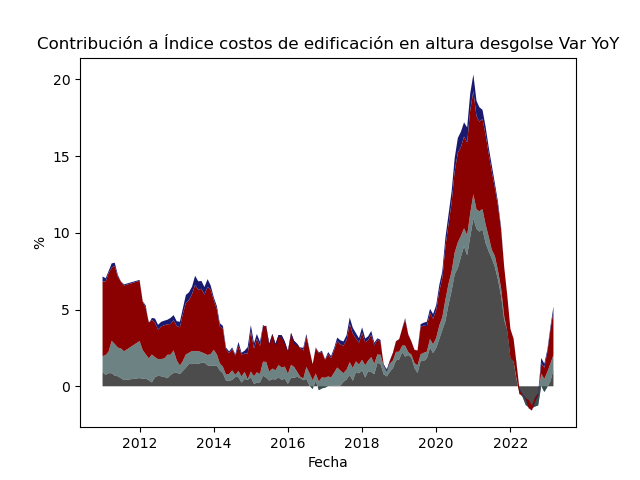
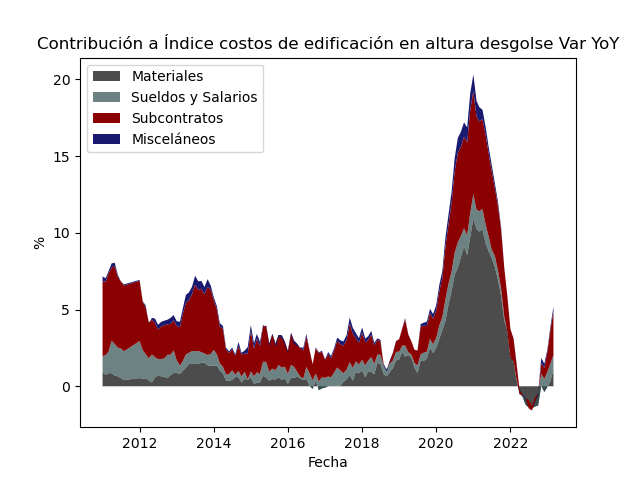
auto_plots v1

Changed region(s): [[0.125, 0.125, 0.4062, 0.3125]]

diff --git a/utils/cchc_preprocess.py b/utils/cchc_preprocess.py
@@ -6,7 +6,15 @@ import math
 
 
 def download_excel_to_df(url="https://cchc.cl/uploads/indicador/archivos/ICEWeb.xls",filename="ICEWeb",sheet_name=0):
+    """ Downloads an excel file to a dataframe and read ir as a dataframe.
+    Args:
+        url (str): The url of the excel file to download.
+        filename (str): The name of the file to save.
+        sheet_name (int): The index of the sheet to read from the excel file.
 
+    Returns:
+        df (DataFrame): The dataframe read from the excel file.
+    """
     download_excel_file(url,name=filename)
 
     file_path=f"download_excels/{filename}.xlsx"
@@ -18,8 +26,14 @@ def download_excel_to_df(url="https://cchc.cl/uploads/indicador/archivos/ICEWeb.
 
 
 def preprocess_iCE(df,new_column_mapping={0: 'Year', 1: 'Month',5:"Índice general", 11:"Materiales peso",12:"Sueldos y Salarios peso",13:"Misceláneos peso", 14:"Obra Gruesa peso",15:"Terminaciones peso",16:"Instalaciones peso",17: "Costos Indirectos peso"}):
-    """
-    Preprocess the dataframe for ICE excel data
+    """ Preprocess the dataframe for ICEweb excel data, see https://cchc.cl/centro-de-informacion/indicadores/indice-de-costos-de-edificacion
+    
+    Args:
+        df (DataFrame): The dataframe to preprocess with the raw ICE data.
+        new_column_mapping (dict): The mapping of the new column names.
+
+    Returns:
+        df (DataFrame): The preprocessed dataframe.
     """
     df=df.iloc[:, :18]
 
@@ -37,34 +51,59 @@ def preprocess_iCE(df,new_column_mapping={0: 'Year', 1: 'Month',5:"Índice gener
     return df
 
 def rename_col_by_index(dataframe, index_mapping):
+    """ Rename the columns of a dataframe based on the index mapping.
+
+    Args:
+        dataframe (DataFrame): The dataframe to rename the columns of.
+        index_mapping (dict): The mapping of the index to column name.
+
+    Returns:
+        dataframe (DataFrame): The dataframe with renamed columns.
+    """
     dataframe.columns = [index_mapping.get(i, col) for i, col in enumerate(dataframe.columns)]
     return dataframe
  
 
-def process_dates(df,last_number=1990,frequency=1):
+def process_dates(df,first_number=1990,frequency=1):
+    """ Process the dates in the dataframe in a specific way given the report format of the Cchc.
+
+    Args:
+        df (DataFrame): The dataframe to process the dates in.
+        first_number (int): The first year number in the dataframe.
+        frequency (int): The number of months between each date (default 1)
+
+    Returns:
+        df (DataFrame): The dataframe with processed dates.
+    """
     for i,j in enumerate(df.iloc[:,0]):
 
         if type(j)==int:
-            last_number=int(j)
+            first_number=int(j)
             month_counter=frequency
 
         elif math.isnan(j):
-            df.iloc[i,0]=last_number
+            df.iloc[i,0]=first_number
             month_counter+=frequency
         df.iloc[i,1]=month_counter
     return(df)
 
 def preprocess_ventas_santiago(df):
+    """ Preprocess the dataframe for ventas Santiago excel data, see https://cchc.cl/centro-de-informacion/indicadores/mercado-inmobiliario-oferta-gran-santiago
+
+    Args:
+        df (DataFrame): The dataframe to preprocess with the raw ventas Santiago data.
+
+    Returns:
+        df (DataFrame): The preprocessed dataframe.
+    """
     
     df=df.set_axis(df.iloc[0], axis='columns')
     df=df.drop(index=[0])
     new_column_mapping = {0: 'Year', 1: 'Month',2:"Departamentos stock", 3:"Departamentos ventas",4:"Departamentos Meses",5:"Casas stock", 6:"Casas ventas",7:"Casas meses",8:"Viviendas stock",9: "Viviendas ventas",10: "Viviendas meses"}
     df = rename_col_by_index(df, new_column_mapping)
     df.dropna(axis=0,subset=["Departamentos ventas"], inplace=True)
-    df=process_dates(df,last_number=2004,frequency=1)
+    df=process_dates(df,first_number=2004,frequency=1)
     df["Period"] = df["Year"].astype(str) +" Q"+ df["Month"].astype(str)
-    #df["Day"]=1
-    #df.index=pd.to_datetime(df.loc[:,("Year","Month","Day")])
     df=df.drop(columns=["Year","Month"])
     return df
 

diff --git a/report_plots.py b/report_plots.py
@@ -9,6 +9,10 @@ import numpy as np
 from utils.cchc_preprocess import download_excel_to_df,preprocess_iCE,preprocess_ventas_santiago
 
 
+#################################################################
+### A script for create the required plots in a scpecific way ###
+#################################################################
+
 ##################################
 ###  IMACEC vs IMACON vs IMCE  ###
 ##################################
@@ -23,6 +27,7 @@ title="IMACEC vs IMACON vs IMCE"
 
 plot=Plot_Data()
 df=plot.get_data_plots(args)
+
 ### plot ###
 
 df.plot(title=title, color=["midnightblue", "orange", "powderblue"], lw=3)
@@ -39,7 +44,7 @@ args={
         "series":["F034.VVNN.FLU.CCHC.Z.0.T","F034.CVN.FLU.INE.Z.0.M"],
         "nombres" : ["Promesas compra venta","Número de viviendas autorizadas"],
         "variacion":12,
-        "frecuencia":"A",
+        "frecuencia":"YE",
         "observado":{"Promesas compra venta":"last", "Número de viviendas autorizadas":"last"}
 
     }
@@ -93,7 +98,7 @@ args={
         "series":["F038.DEUD.PPB2.53.10.N.2018.CLP.T","F038.DEUBH.PPB2.53.10.N.2018.CLP.T"],
         "nombres" :["Deuda total","Deuda hipotecaria"],
         "variacion":12,
-        "frecuencia":"A",
+        "frecuencia":"YE",
         "observado":{"Deuda total":"last", "Deuda hipotecaria":"last"}
   
     }
@@ -162,7 +167,7 @@ args=    {
         "nombres" : ["Número de viviendas autorizadas","IMACON"],
         "desde":"2008-01-01",    # tentativo
         "variacion":12,
-        "frecuencia":"A",
+        "frecuencia":"YE",
         "observado":{"Número de viviendas autorizadas":"last", "IMACON":"last"}
     }
 
@@ -287,7 +292,7 @@ args=        {
         "nombres" : ["IMACON","PIB"],
         "desde":"2008-01-01",    
         "variacion":12,
-        "frecuencia":"A",
+        "frecuencia":"YE",
         "observado":{"IMACON":"last", "PIB":"last"}
     }
 
@@ -317,7 +322,7 @@ args=        {
         "nombres" : ["IMACON","Ventas casas nuevas"],
         "desde":"2008-01-01",    # tentativo
         "variacion":12,
-        "frecuencia":"A",
+        "frecuencia":"YE",
         "observado":{"IMACON":"last", "Ventas casas nuevas":"last"}
     }
 
@@ -395,7 +400,7 @@ args=        {
         "nombres" : ["Venta viviendas nuevas","Deuda bancaria hipótecaria"],
         "desde":"2008-01-01",    # tentativo
         "variacion":12,
-        "frecuencia":"A",
+        "frecuencia":"YE",
         "observado":{"Venta viviendas nuevas":"last", "Deuda bancaria hipótecaria":"last"}
     }
 
@@ -524,12 +529,13 @@ x=df_combined.index.to_numpy()
 fig = plt.figure()
 ax1 = fig.add_subplot(111)
 
-ax1.fill_between(x, 0, y_stack[0,:], facecolor="black", alpha=.7)
-ax1.fill_between(x, y_stack[0,:], y_stack[1,:], facecolor="darkslategrey", alpha=.7)
-ax1.fill_between(x, y_stack[1,:], y_stack[2,:], facecolor="darkred")
-ax1.fill_between(x, y_stack[2,:], y_stack[3,:], facecolor="midnightblue")
+ax1.fill_between(x, 0, y_stack[0,:], facecolor="black", alpha=.7,label="Materiales")
+ax1.fill_between(x, y_stack[0,:], y_stack[1,:], facecolor="darkslategrey", alpha=.7,label="Sueldos y Salarios")
+ax1.fill_between(x, y_stack[1,:], y_stack[2,:], facecolor="darkred",label="Subcontratos")
+ax1.fill_between(x, y_stack[2,:], y_stack[3,:], facecolor="midnightblue",label="Misceláneos")
 plt.title(title)
 plt.xlabel('Fecha')
 plt.ylabel('%')
+ax1.legend(loc="upper left")
 plt.savefig(os.path.join("plots",title))
 plt.close()

diff --git a/get_data.py b/get_data.py
@@ -2,11 +2,13 @@ import bcchapi
 import os
 from utils.json_utils import get_json
 import datetime
+
+
 ##### Get data #####
 
 class Data:
-    '''
-        Class to get data from bccentral API
+    ''' Class to get data from bccentral API
+    
     '''
     def __init__(self,data_dir="data"):
         self.siete = bcchapi.Siete(file="credentials.txt") # tiene que ser string # file="credenciales.txt" hacer mas seguro el logging con variables de ambiente
@@ -15,9 +17,12 @@ class Data:
               os.makedirs( self.data_directory)
 
     def get_data_from_json(self,json_file="serie.json"):
-        """
-        Function to to get the parameters from the json file and make request to the API
-        
+        """ Function to to get the parameters from the json file and make request to the API
+
+        Args:
+            json file (str): name of the json file with the parameters 
+        Returns:
+            df: dataframe with the data
         """
         args=get_json(json_file)
         self.name=args["nombres"]   # que pasa si no pongo nombres?? quizas buscarlos
@@ -28,6 +33,12 @@ class Data:
         """
         Function to to get the data from a dict of args
 
+        Args:
+            args (dict): dict of args to request from the bccentral API 
+                        ver ejemplos: https://si3.bcentral.cl/estadisticas/Principal1/Web_Services/ejemplos.htm
+
+        Returns:
+            df: dataframe with the data
         """
         self.name=args["nombres"]   # que pasa si no pongo nombres?? quizas buscarlos
         self.data=self.siete.cuadro(**args)
@@ -36,8 +47,11 @@ class Data:
 
 
     def download_data(self,format="csv",filename=None):
-        """
-        Function to download the data to csv or excel
+        """ Function to download the data to csv or excel
+
+        Args:
+            format (str): format of the data to download (csv or excel)
+            filename (str): filename name of the file to download. If not provided, a random filename will be generated.
         """
         if filename is None:
             filename=self.generate_filename()
@@ -49,21 +63,25 @@ class Data:
 
     
     def search_data(self, search_string):
-        """
-        Function to search the data
+        """ Function to search the data
+        
+        Args:
+            search_string (str): string to search in the data
+
+        Returns:
+            df : dataframe with the series
         """
         return(self.siete.buscar(search_string))
     
     def generate_filename(self,prefix="series", date_format="%Y%m%d_%H%M%S"):
-        """
-        Generate a file name with a given prefix, suffix, and date format.
+        """ Generate a file name with a given prefix, suffix, and date format.
 
-        Parameters:
-        prefix (str): The prefix of the file name.
-        date_format (str): The datetime format to use in the file name.
-
+        Args:
+            prefix (str): The prefix of the file name.
+            date_format (str): The datetime format to use in the file name.
+            
         Returns:
-        str: Generated file name.
+            str: Generated file name.
         """
         current_time = datetime.datetime.now().strftime(date_format)
         filename = f"{prefix}_{current_time}"

diff --git a/plots_data.py b/plots_data.py
@@ -4,6 +4,9 @@ import os
 
 
 class Plot_Data(Data):
+    """ Class to plot the data series of Data class
+    
+    """
     
     def __init__(self, plot_directory="plots"):
         super().__init__()
@@ -18,18 +21,29 @@ class Plot_Data(Data):
                 self.plot_serie(file)
     """
     def get_data_plots(self,args):
+        """ Function to get the data series of Data
+
+        Args:
+          args (dict): dictionary with the arguments to get the data series
+          
+        Returns:
+          data (DataFrame): data series of Data
+        """
         data=self.get_data_from_args(args)
         return(data)
     
     def plot_serie(self,serie_name="",plot_args={}):
-        """
-        Function to plot the data series of Data
+        """ Function to plot quickly the data series of Data
+
+        Args:
+          serie_name (str): name of the data series to plot
+          plot_args (dict): dictionary with the arguments to plot the data series see the documentation: 
+                            https://pandas.pydata.org/docs/reference/api/pandas.DataFrame.plot.html
+
         """
         fig, ax = plt.subplots(figsize=(8, 6))
         for col in self.data.columns:
             self.data[col].dropna().plot(ax=ax, label=col, **plot_args)
-            #sns.lineplot(data=data[col], label=col)#, **plot_args)
-        #  data.plot(**plot_args)
         plt.grid()
         plt.legend()
         plt.xlabel("Fecha")

diff --git a/utils/json_utils.py b/utils/json_utils.py
@@ -1,16 +1,31 @@
 import json
 
 
-
-
-
 ##### Funciones para leer archivos json #####
 
-def read_json(file):
-    with open(file,encoding="utf8") as f: # VER LOS ENCODINGS DE LOS ARCHIVOS  Latin-1, UTF-8
+def read_json(file,encoding="utf8"):
+    """ Function to read json files
+
+    Args:
+        file (str): path to json file
+        encoding (str): encoding of the file
+
+    Returns:
+        dict: json data
+    """
+    with open(file,encoding=encoding) as f: # VER LOS ENCODINGS DE LOS ARCHIVOS  Latin-1, UTF-8
         data = json.load(f)
     return data
 
 def get_json(file):
+    """ Function to get json data
+
+    Args:
+        file (str): path to json file
+
+    Returns:
+        dict: json data
+    """
+
     data=read_json(file)
     return data

diff --git a/utils/excel_downloads.py b/utils/excel_downloads.py
@@ -2,8 +2,7 @@ import requests
 import os
 
 def download_excel_file(url,name="excel_file"):
-    """
-    Download an Excel file from a given URL with a given name.
+    """ Download an Excel file from a given URL with a given name.
 
     Args:
         url (str): The URL of the Excel file to download
